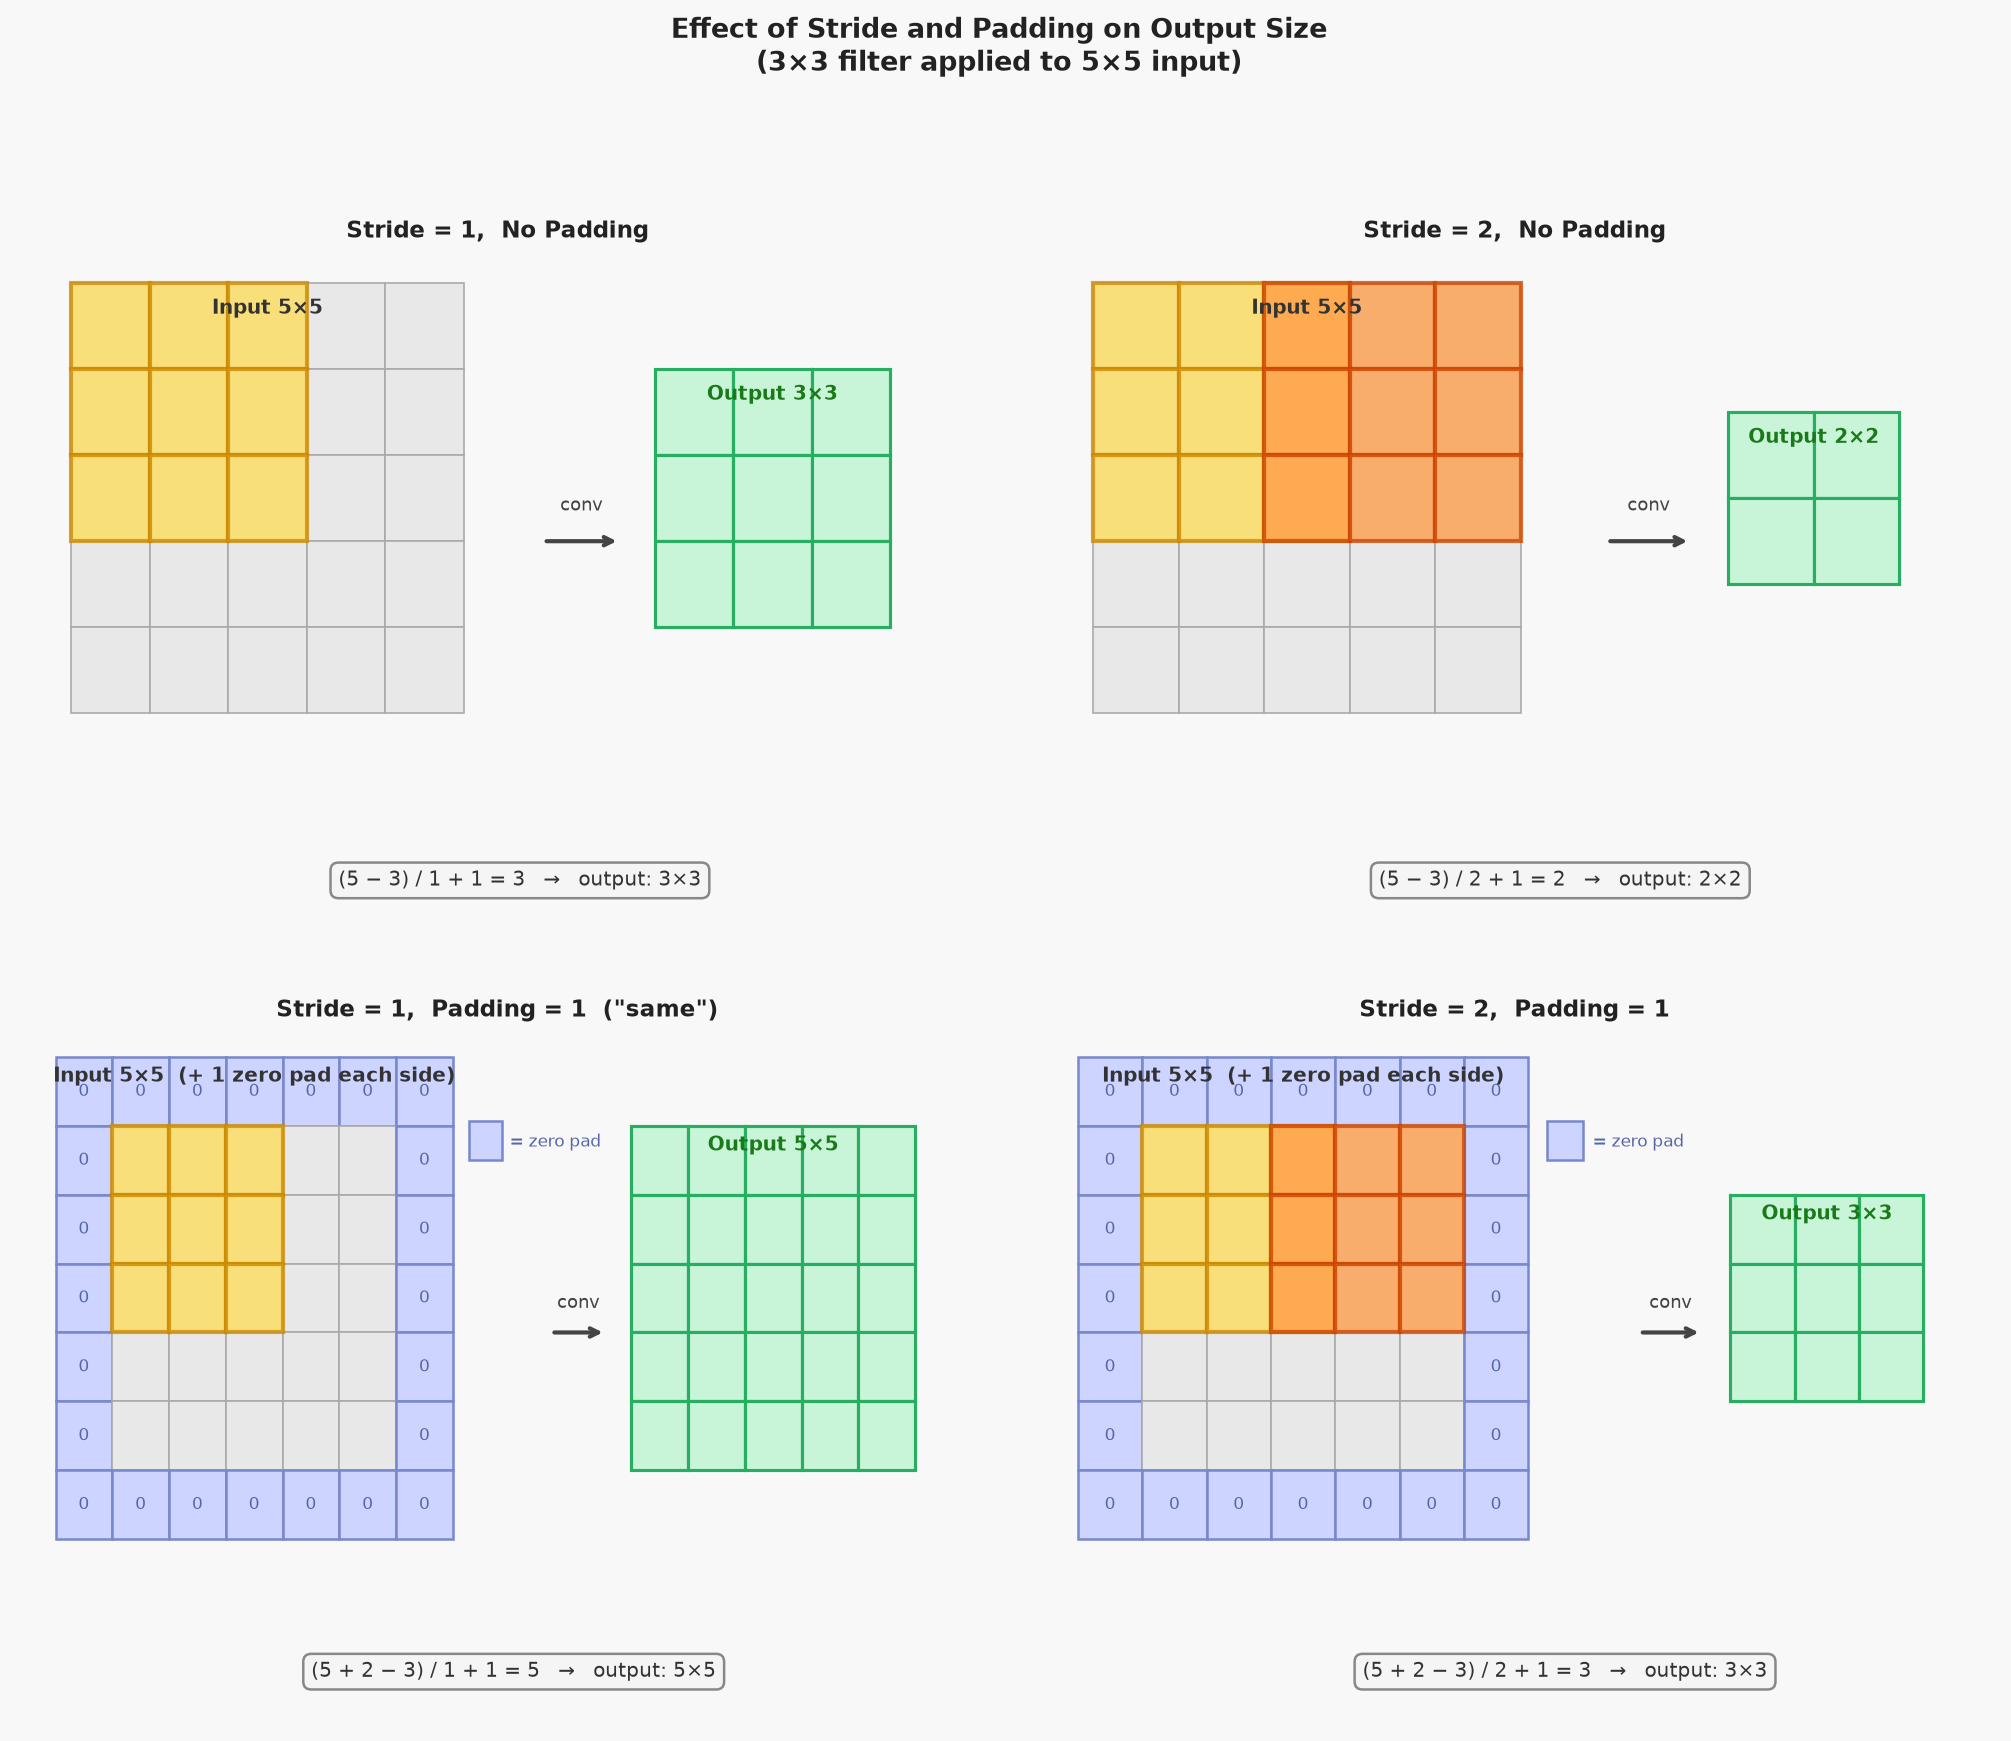
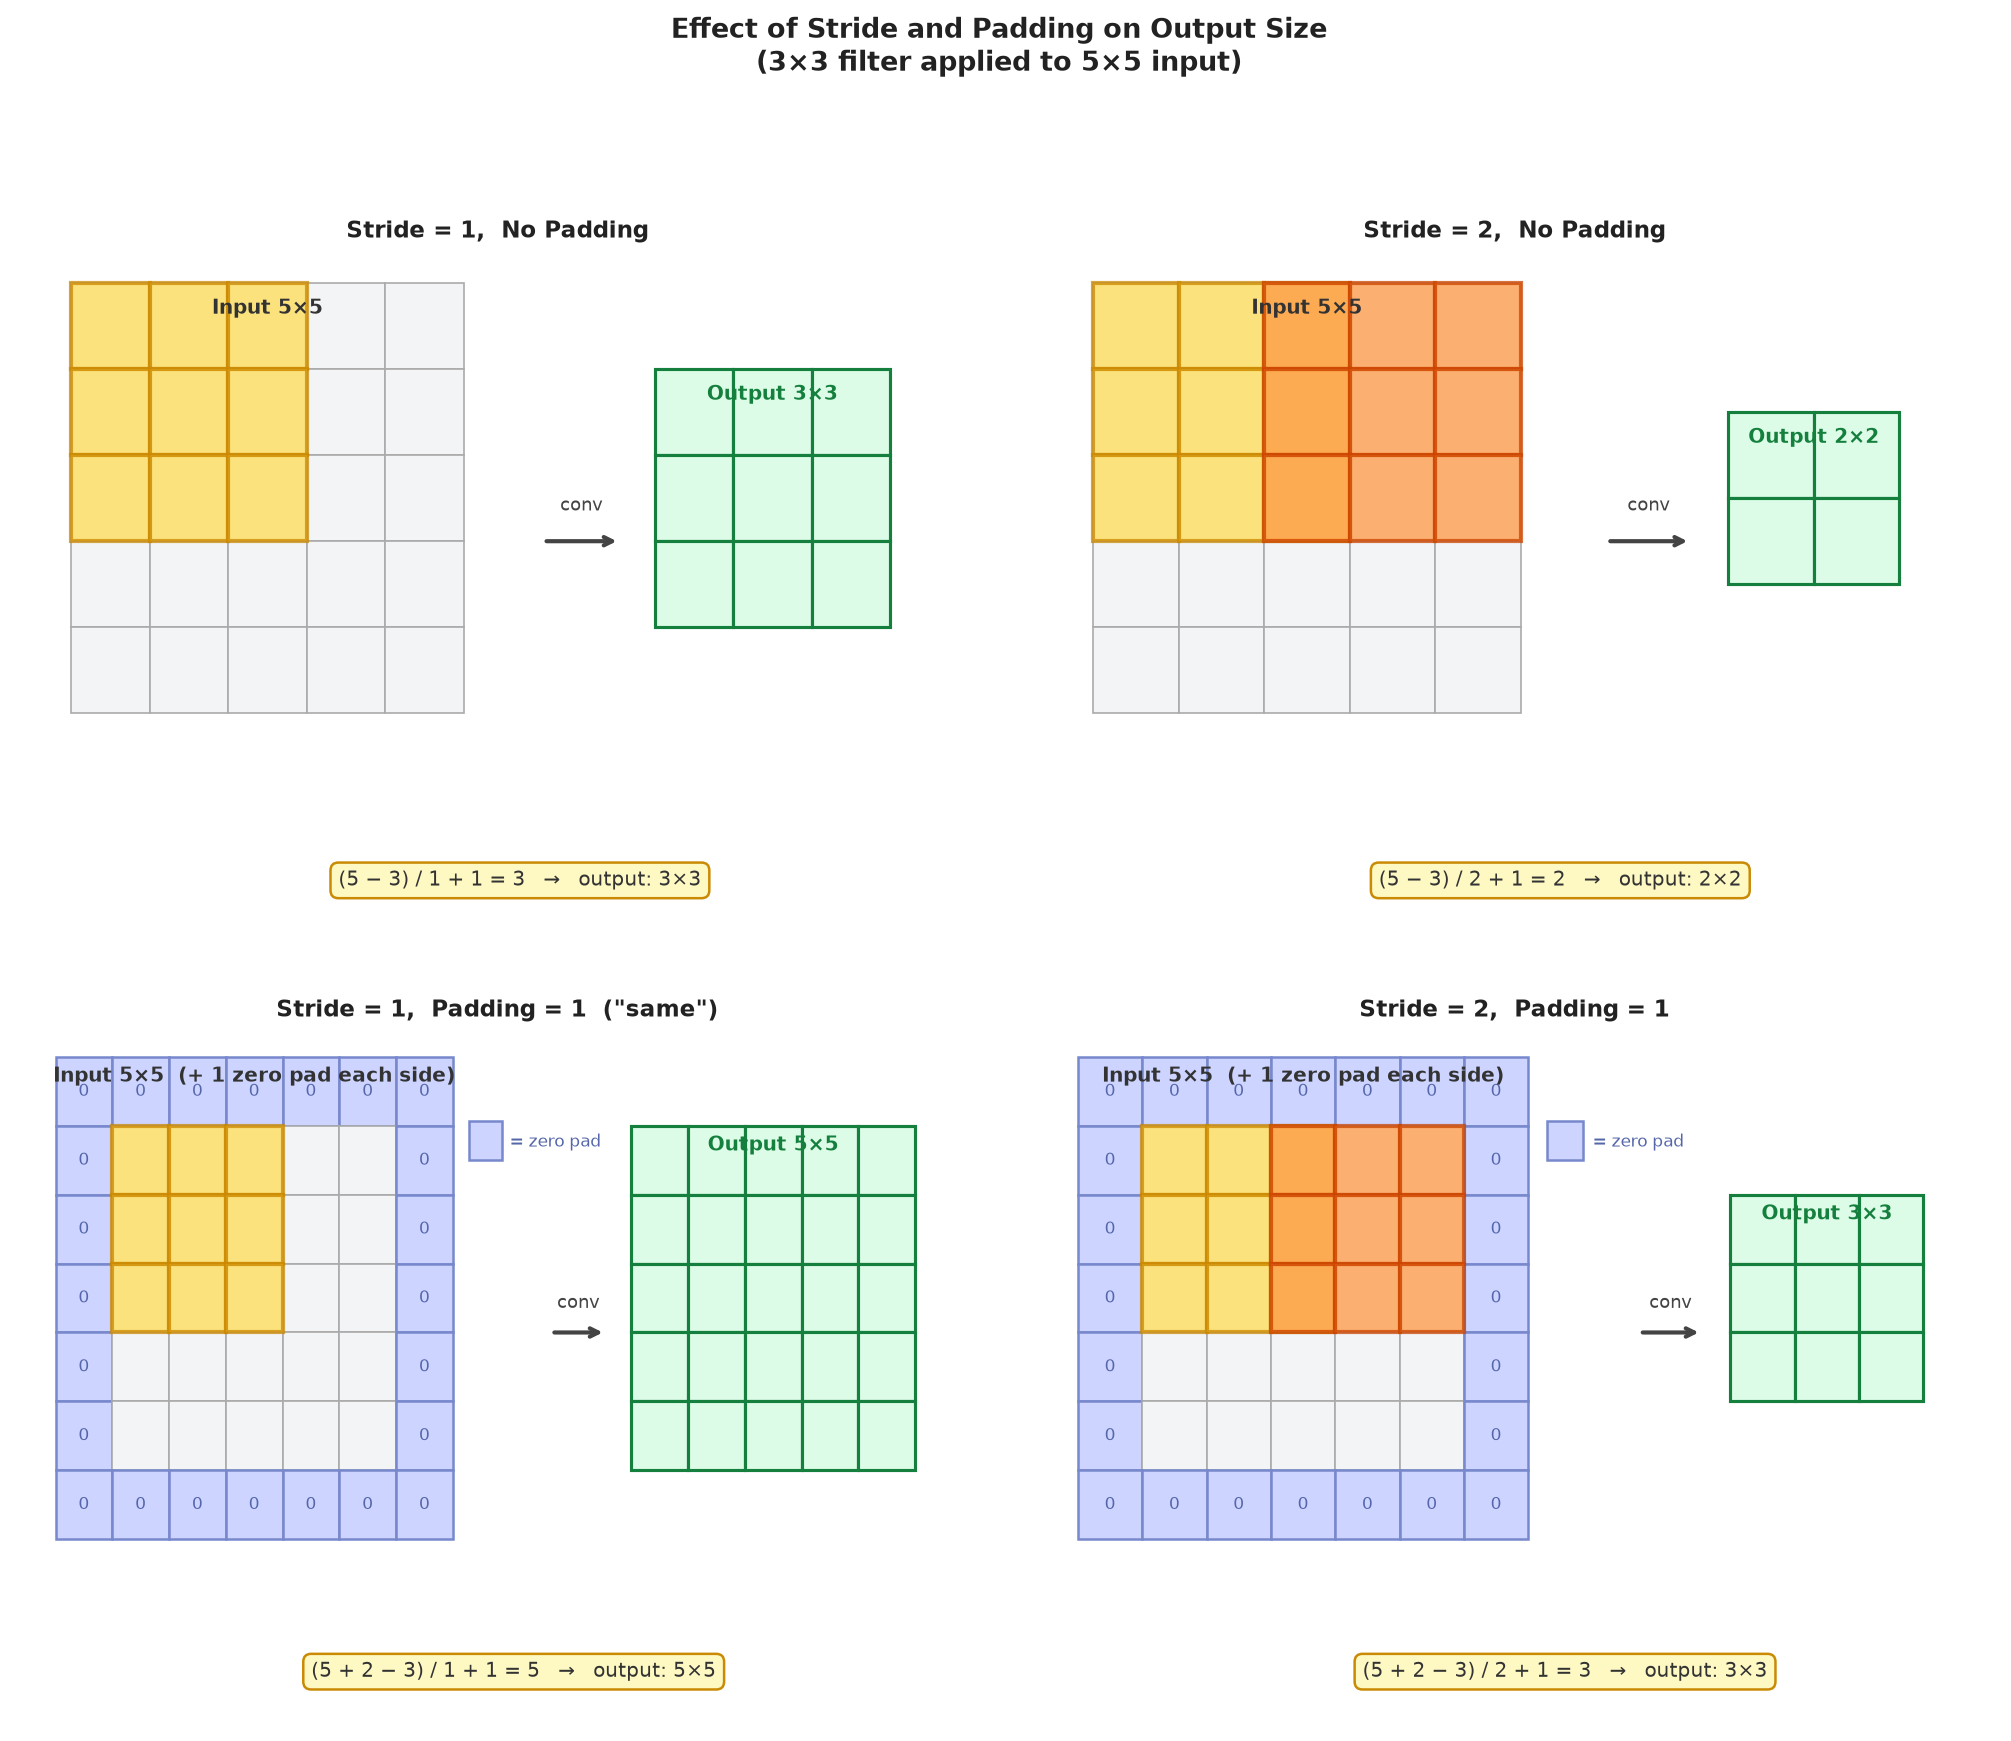
add note 20: CNN architecture — convolutional, pooling, and fully connected layers

diff --git a/notes/scripts/plot_cnn_stride_padding.py b/notes/scripts/plot_cnn_stride_padding.py
@@ -3,14 +3,14 @@ import numpy as np
 import os
 
 fig, axes = plt.subplots(2, 2, figsize=(14, 12))
-fig.patch.set_facecolor('#f8f8f8')
+fig.patch.set_facecolor('white')
 fig.suptitle('Effect of Stride and Padding on Output Size\n(3×3 filter applied to 5×5 input)',
              fontsize=13, fontweight='bold', color='#222', y=0.98)
 
 cell = 0.7
 
 def draw_panel(ax, inp_size, pad, stride, filter_size=3, title='', formula=''):
-    ax.set_facecolor('#f8f8f8')
+    ax.set_facecolor('white')
     ax.axis('off')
     ax.set_title(title, fontsize=11, fontweight='bold', color='#222', pad=10)
 
@@ -25,7 +25,7 @@ def draw_panel(ax, inp_size, pad, stride, filter_size=3, title='', formula=''):
     for r in range(total):
         for c in range(total):
             is_pad = (r < pad or r >= inp_size + pad or c < pad or c >= inp_size + pad)
-            color = '#ccd4ff' if is_pad else '#e8e8e8'
+            color = '#ccd4ff' if is_pad else '#f3f4f6'
             edge = '#7788cc' if is_pad else '#aaa'
             lw = 1.2 if is_pad else 0.8
             rect = plt.Rectangle((x0 + c * cell, y0 - r * cell), cell, cell,
@@ -84,17 +84,17 @@ def draw_panel(ax, inp_size, pad, stride, filter_size=3, title='', formula=''):
     for r in range(out_size):
         for c in range(out_size):
             rect = plt.Rectangle((ox0 + c * cell, oy0 - r * cell), cell, cell,
-                                  facecolor='#c8f5d8', edgecolor='#27ae60', linewidth=1.5, zorder=2)
+                                  facecolor='#dcfce7', edgecolor='#15803d', linewidth=1.5, zorder=2)
             ax.add_patch(rect)
 
     ax.text(ox0 + out_size * cell / 2, oy0 + 0.45,
             f'Output {out_size}×{out_size}',
-            ha='center', fontsize=9.5, fontweight='bold', color='#1a7a1a')
+            ha='center', fontsize=9.5, fontweight='bold', color='#15803d')
 
     # --- Formula box at bottom ---
     mid_x = (x0 + total * cell / 2 + ox0 + out_size * cell / 2) / 2
     ax.text(mid_x, 0.5, formula, ha='center', fontsize=9.5, color='#333',
-            bbox=dict(boxstyle='round,pad=0.4', facecolor='#f5f5f5', edgecolor='#888', linewidth=1.2))
+            bbox=dict(boxstyle='round,pad=0.4', facecolor='#fef9c3', edgecolor='#ca8a04', linewidth=1.2))
 
     # Set axis limits with enough room
     ax.set_xlim(-0.2, ox0 + out_size * cell + 0.8)
@@ -111,6 +111,7 @@ draw_panel(axes[1, 1], 5, 1, 2, title='Stride = 2,  Padding = 1',
 
 plt.tight_layout(pad=2.5, rect=[0, 0, 1, 0.96])
 out_dir = os.path.join(os.path.dirname(__file__), '..', 'images')
-plt.savefig(os.path.join(out_dir, 'cnn_stride_padding.png'), dpi=150, bbox_inches='tight')
+plt.savefig(os.path.join(out_dir, 'cnn_stride_padding.png'), dpi=150, bbox_inches='tight',
+            facecolor='white', edgecolor='none')
 plt.close()
 print("Saved cnn_stride_padding.png")
